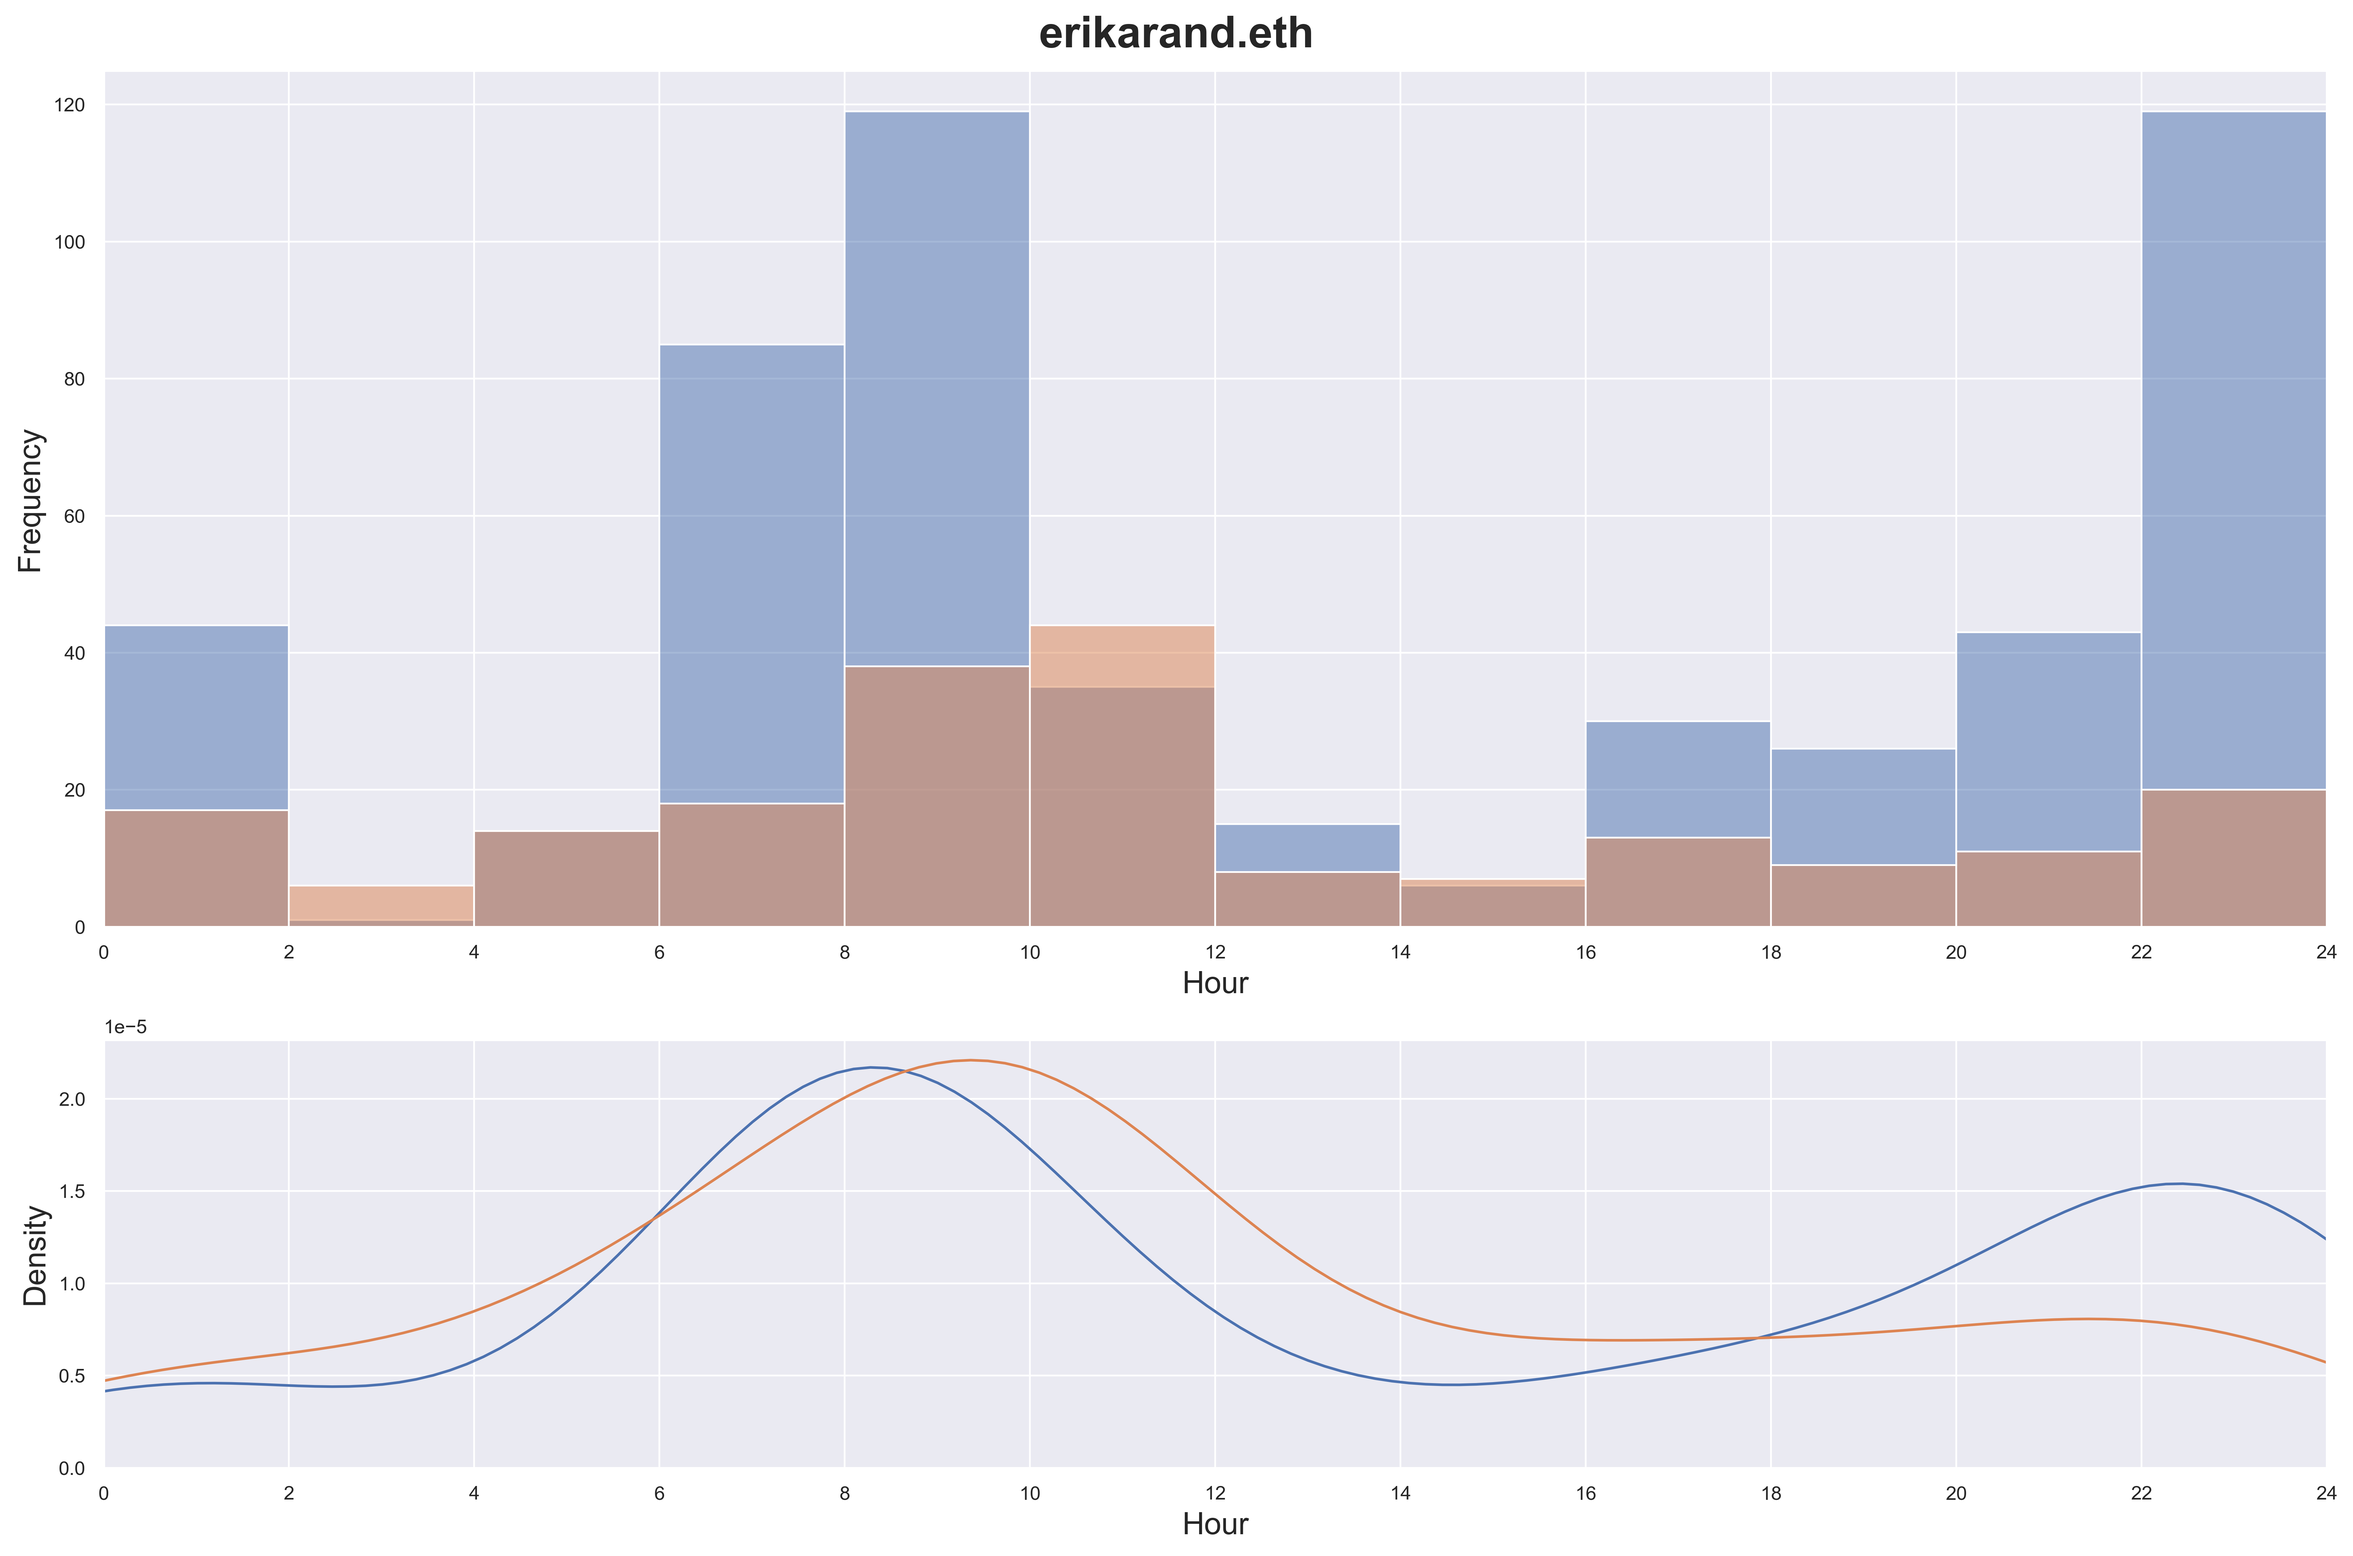
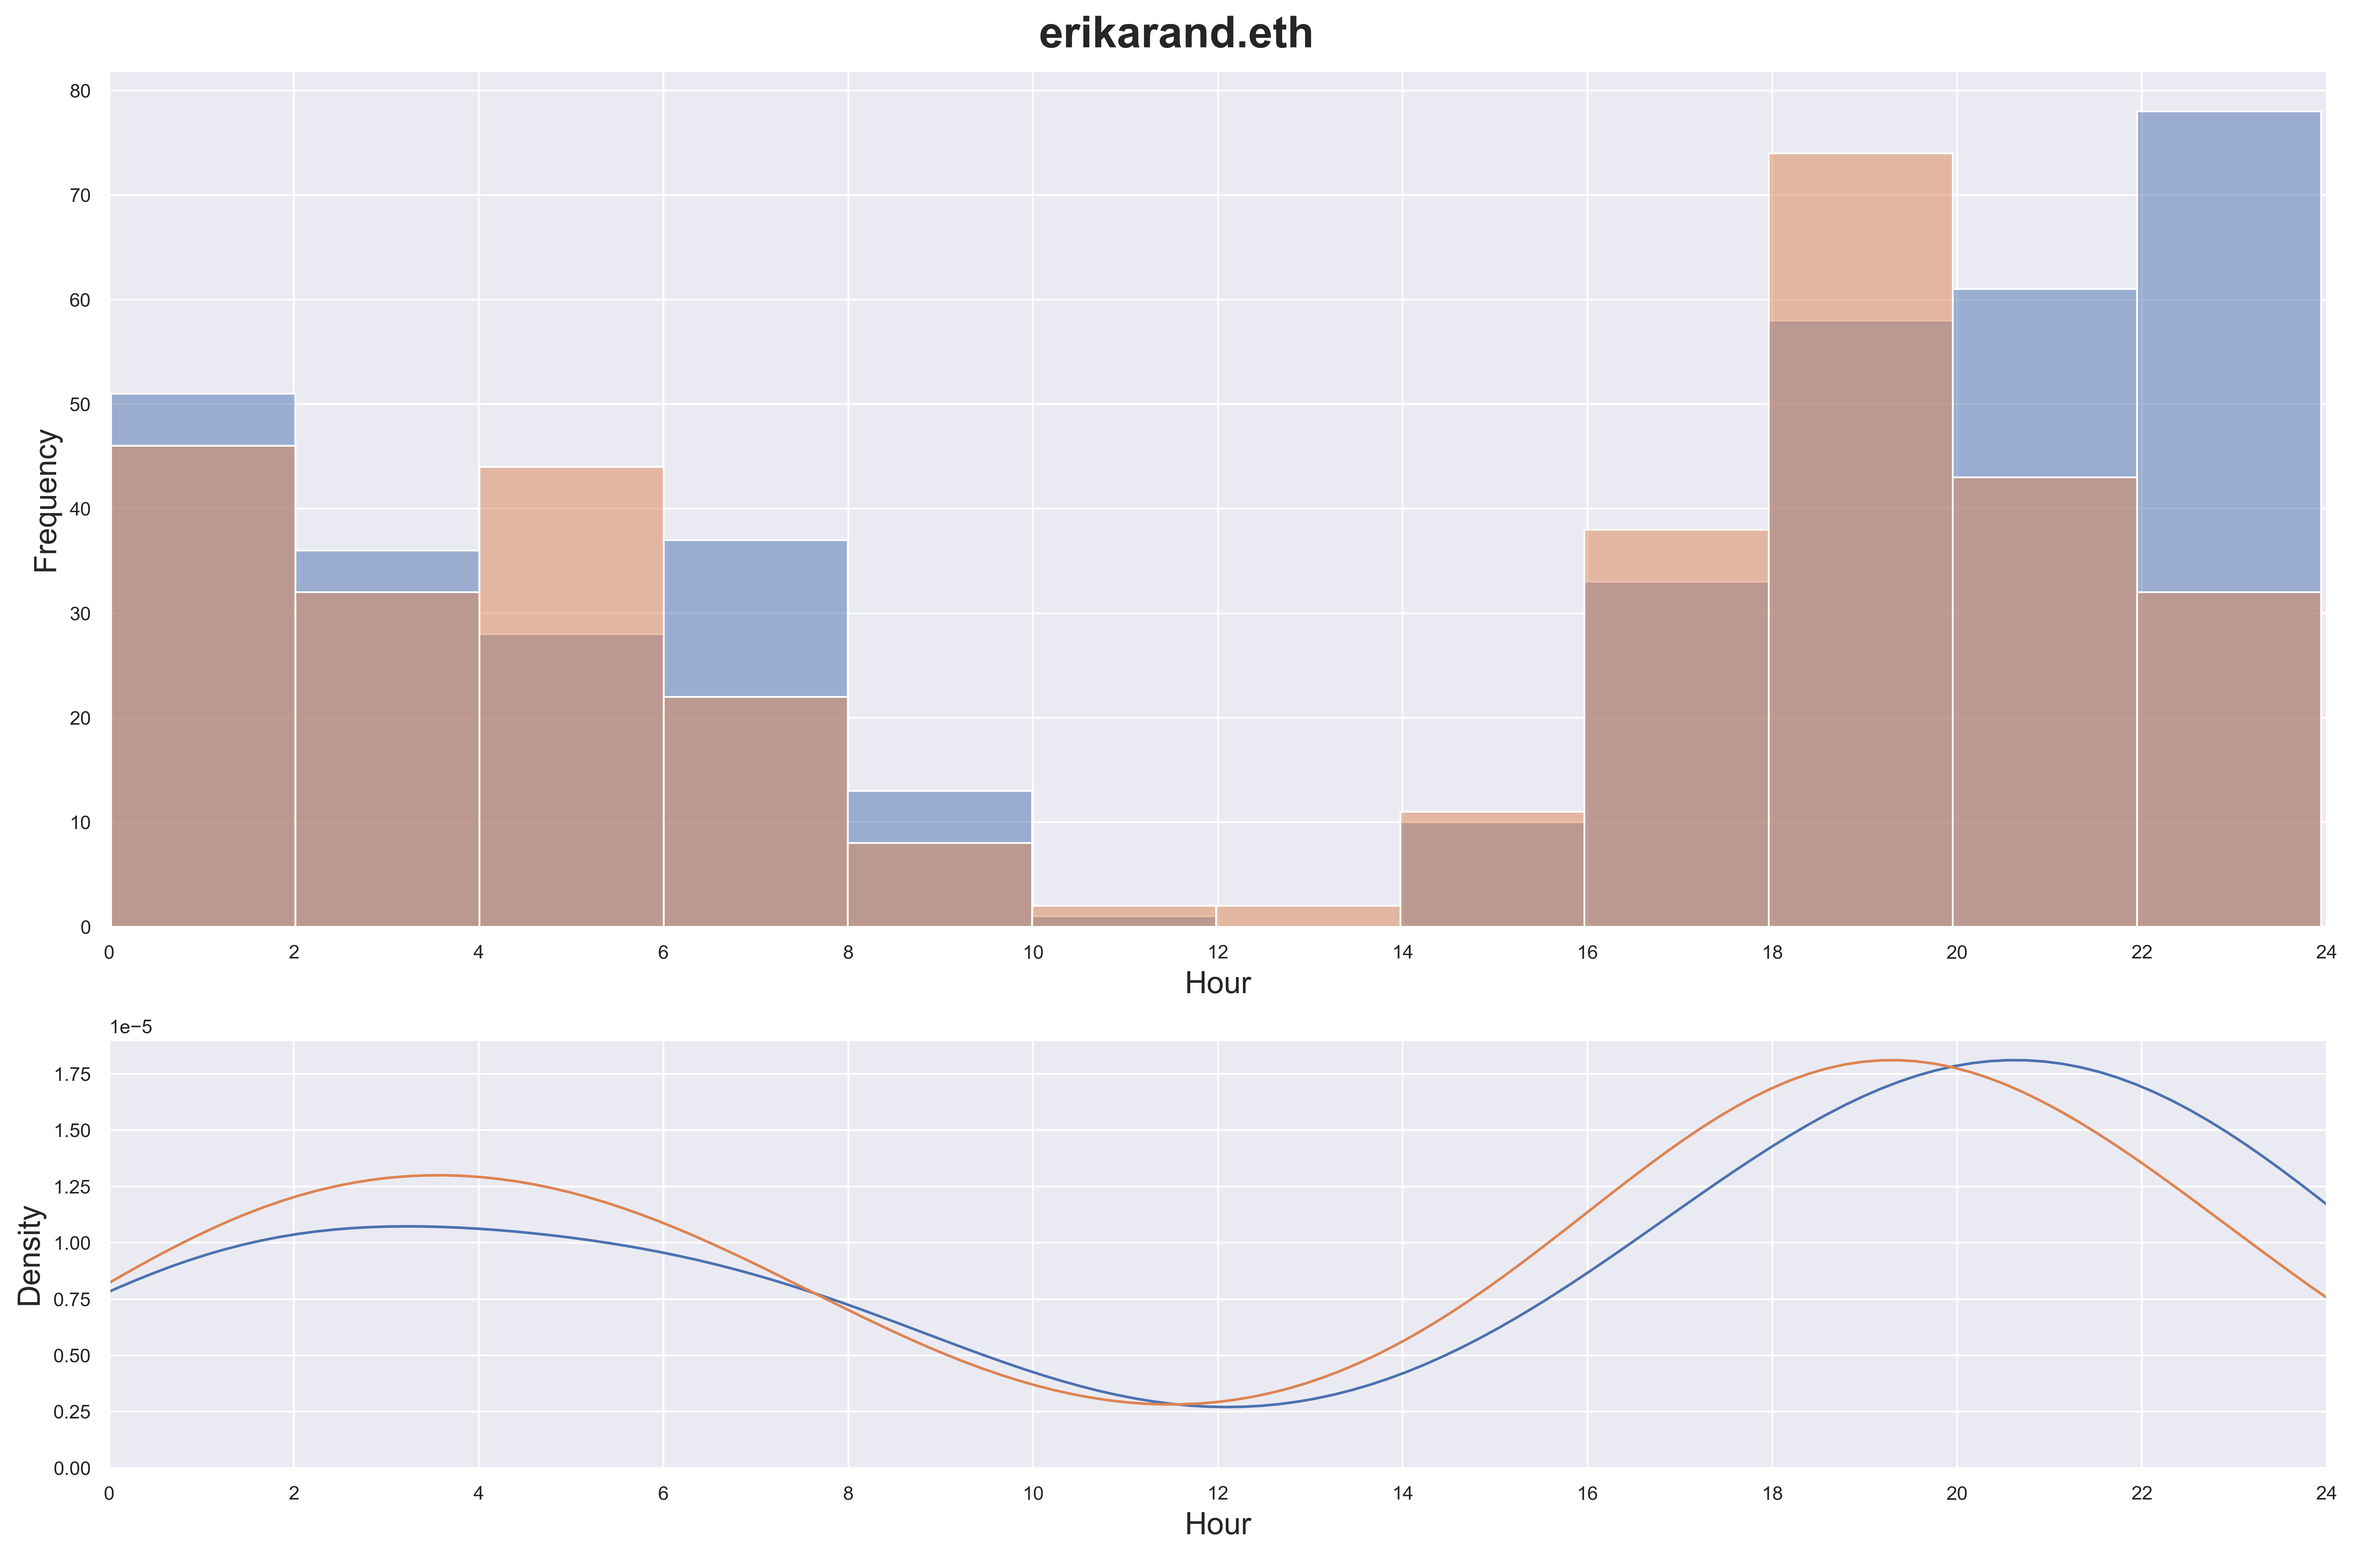
Update ToD script

diff --git a/python/data-visualization/timeOfDay-activity-pattern.py b/python/data-visualization/timeOfDay-activity-pattern.py
@@ -8,8 +8,7 @@ def format_x_axis(ax, hour_bins):
     x_labels = [f'{int(tick / 3600)}' for tick in x_ticks]
     ax.set_xticklabels(x_labels)
 
-
-def show_patterns(events_df, addresses, ens_name, hour_bins=24, figsize=(15, 15), show_kde=True):
+def show_ToD_pattern(events_df, addresses, ens_name, hour_bins=24, figsize=(15, 15), show_kde=True):
     """Show side channels distribution of the given addresses"""
     addresses = [addr.lower() for addr in addresses]
     events_df['timeStamp'] = pd.to_datetime(events_df['timeStamp'], unit='s')
@@ -46,12 +45,26 @@ def show_patterns(events_df, addresses, ens_name, hour_bins=24, figsize=(15, 15)
     return fig, (ax_hist, ax_kde)
 
 
-all_transfers_df = pd.read_csv('../data/all_intra_transfers.csv', index_col=[0])
-ens_pairs = pd.read_csv('../data/ens_pairs.csv', index_col=[0])
+def get_addresses(ens_name, ens_pairs):
+    # Extract addresses corresponding to the queried ENS name
+    query_result = ens_pairs[ens_pairs['ens_name'] == ens_name]
+    if query_result.empty:
+        print(f"No addresses found for {ens_name}")
+        return
+    else:
+        return query_result.iloc[0]['addr1'], query_result.iloc[0]['addr2']
 
-# Specify the addresses to be compared
-addresses = ['0xa5dbd5f2f45cec05ace6c08f0b75bec711ea9517','0xf1289a44a9e7f75809de380ffa261f6095387c72']
 
-show_patterns(all_transfers_df, addresses, 'erikarand.eth', hour_bins=12, show_kde=True, figsize=(15, 10))
-plt.savefig('../figures/time-of-day-activity.png', bbox_inches='tight', dpi=500)
+# ENS Pairs dataset
+ens_pairs = pd.read_csv('../../data/ens_pairs.csv')
+
+# ENS Name to query
+ens_name = 'erikarand.eth'
+# Get addresses corresponding to the queried ENS name
+addresses = get_addresses(ens_name, ens_pairs)
+# Get transactions corresponding to addresses
+transactions_df = address_txs(addresses)
+
+show_ToD_pattern(transactions_df, addresses, ens_name, hour_bins=12, show_kde=True, figsize=(15, 10))
+plt.savefig(f'../../figures/{ens_name[:-4]}.png', bbox_inches='tight', dpi=500)
 plt.show()
